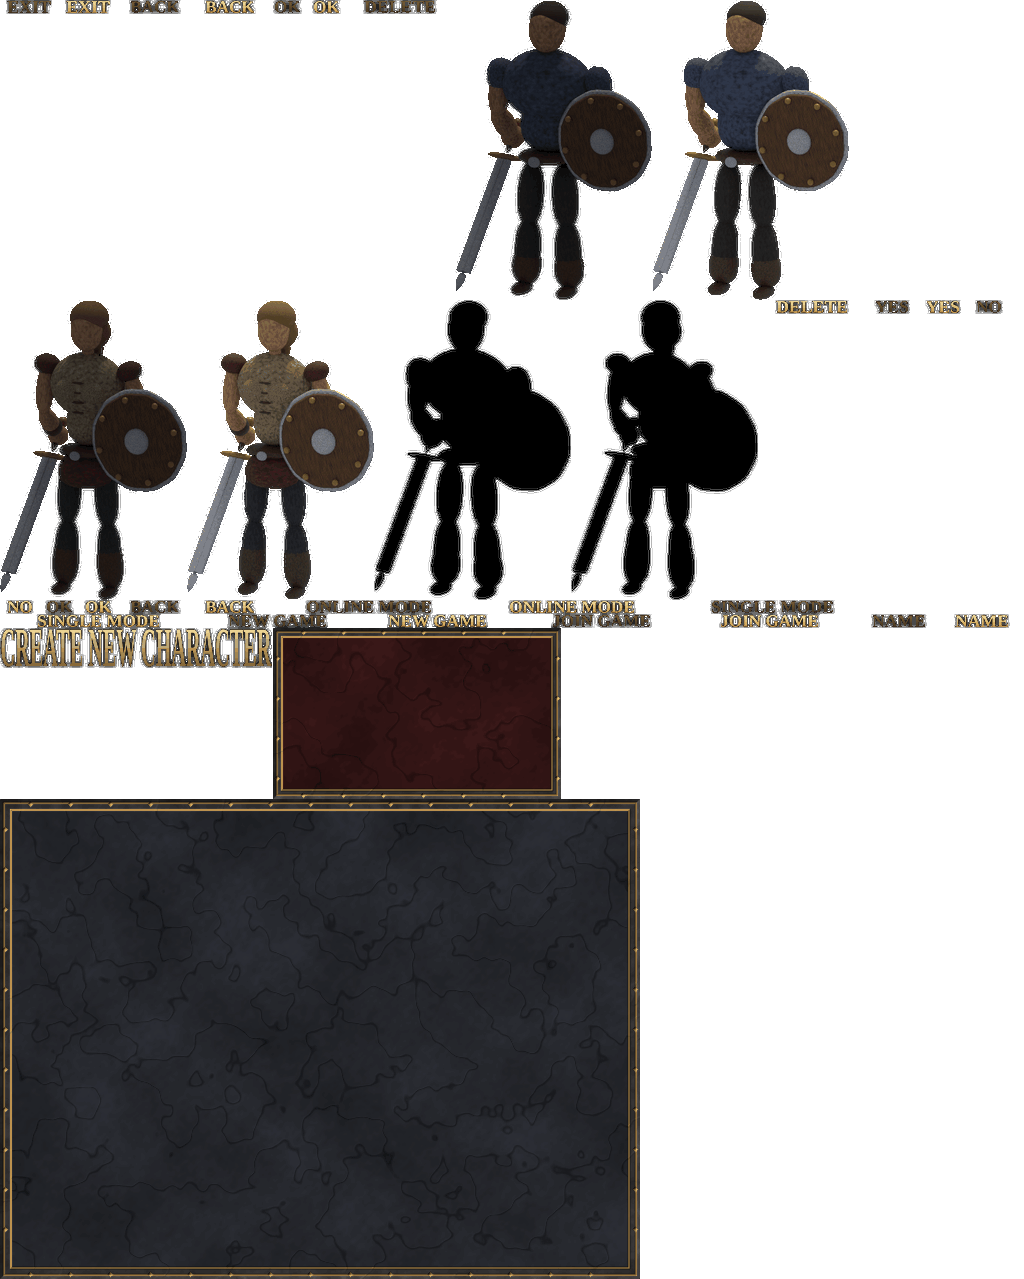
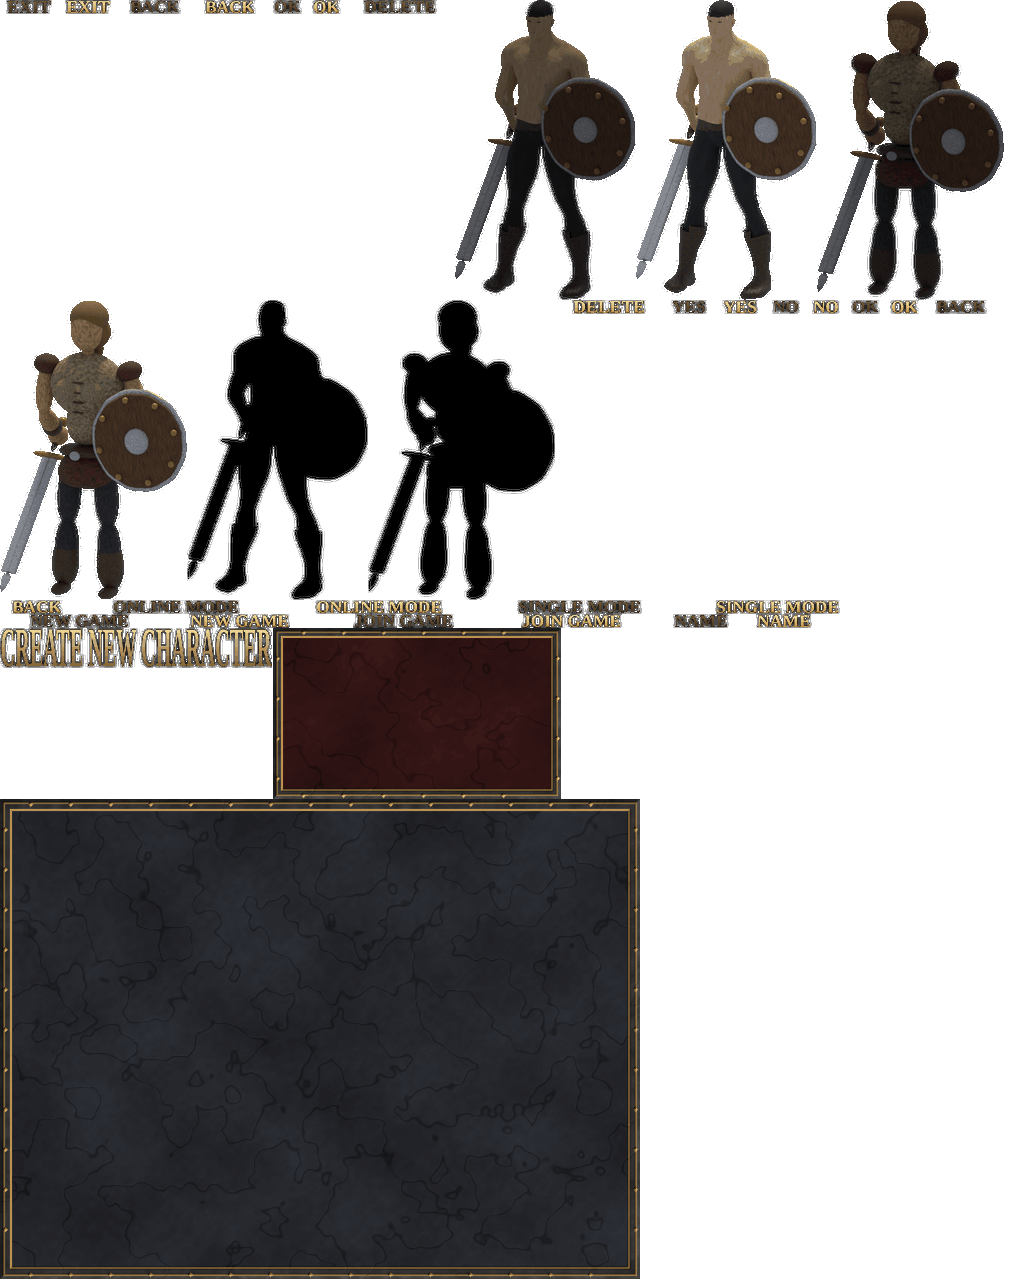
Give the hero eyes and boots, and the new hero to the select screen
MPFB's eyeballs are kept and painted; boots are a shell over the feet.
The hero renders in a 200 px frame so long weapons are not cut off.
The Create New Character screen shows the new hero.

Claude-Session: https://claude.ai/code/session_01HSfgFawsfrjYrtN2WY12fv

Changed region(s): [[0.0, 0.0, 1.0, 0.5184], [0.9375, 0.4574, 1.0, 0.4879], [0.8438, 0.4574, 0.9062, 0.4879]]

diff --git a/tools/art/mpfb_body.py b/tools/art/mpfb_body.py
@@ -25,6 +25,7 @@ import bpy
 from mathutils import Matrix, Vector
 
 EXTENSION = "bl_ext.user_default.mpfb"
+EYES = ("helper-l-eye", "helper-r-eye")
 
 # creatures.Rig joint: (MPFB bones it drives, bone whose head is the joint)
 JOINTS = {
@@ -82,6 +83,14 @@ def human(height, macros, targets=()):
     ts.reapply_macro_details(body)
     for path, weight in targets:
         ts.load_target(body, os.path.join(loc.get_mpfb_data("targets"), path), weight=weight)
+    # MPFB shows only the "body" group; show the eyeballs too.
+    for mod in body.modifiers:
+        if mod.type == "MASK":
+            keep = {body.vertex_groups[n].index for n in (mod.vertex_group, *EYES)}
+            shown = body.vertex_groups.new(name="body and eyes")
+            shown.add([v.index for v in body.data.vertices if any(g.group in keep and g.weight > 0 for g in v.groups)],
+                      1.0, "REPLACE")
+            mod.vertex_group = shown.name
     armature = hs.add_builtin_rig(body, "game_engine")
     armature["height"] = height
     return body, armature
@@ -138,18 +147,26 @@ def dominant_bone(body):
     return out
 
 
-def paint(body, pick):
+def paint(body, pick, eye=None):
     """Gives each face the material pick(centre, bones of its vertices,
     normal) returns; centre and normal are in the body's rest pose, in
-    world units, front towards -Y. Materials are added to the mesh as
-    they are first returned."""
+    world units, front towards -Y. The eyeballs get `eye` (a dark brown
+    unless given). Materials are added to the mesh as they are first
+    returned."""
+    import studio
+    eye = eye or studio.material("eye", (0.16, 0.10, 0.07), (0.05, 0.03, 0.02), scale=60, rough=0.2, bump=0)
+    eyes = {g.index for g in body.vertex_groups if g.name in EYES}
+    in_eye = [any(g.group in eyes and g.weight > 0 for g in v.groups) for v in body.data.vertices]
     bones = dominant_bone(body)
     mw = body.matrix_world
     slots = {}
     for poly in body.data.polygons:
         centre = mw @ poly.center
         normal = (mw.to_3x3() @ poly.normal).normalized()
-        mat = pick(centre, [bones[i] for i in poly.vertices], normal)
+        if all(in_eye[i] for i in poly.vertices):
+            mat = eye
+        else:
+            mat = pick(centre, [bones[i] for i in poly.vertices], normal)
         if mat.name not in slots:
             body.data.materials.append(mat)
             slots[mat.name] = len(body.data.materials) - 1

diff --git a/tools/art/creatures.py b/tools/art/creatures.py
@@ -33,7 +33,7 @@ sys.path.insert(0, str(Path(__file__).resolve().parent))
 import studio  # noqa: E402
 from town import mesh  # noqa: E402
 
-SIZE = {"golem": 300, "shaman": 200, "bigspider": 200, "ogre": 220, "demon": 300, "dragon": 400}  # rendered frame size in pixels, 160 unless listed
+SIZE = {"hero": 200, "golem": 300, "shaman": 200, "bigspider": 200, "ogre": 220, "demon": 300, "dragon": 400}  # rendered frame size in pixels, 160 unless listed
 HEIGHT = {"goblin": 3.8, "hero": 4.0, "heroine": 3.5, "fly": 2.4, "ghoul": 3.4, "shaman": 4.6, "golem": 9.5, "spider": 2.4,
           "bigspider": 3.6, "ogre": 4.8, "demon": 6.0, "dragon": 9.0}  # for framing
 
@@ -143,10 +143,10 @@ def build_hero():
     Its joints are the ones every rig has, so the pose code and equipment
     work as before."""
     import mpfb_body
-    skin = studio.material("skin", (0.86, 0.72, 0.58), (0.60, 0.45, 0.34), scale=30, bump=0.05)
+    skin = studio.material("skin", (0.86, 0.72, 0.58), (0.72, 0.56, 0.44), scale=30, bump=0.05)
     hair = studio.material("hair", (0.16, 0.11, 0.07), (0.06, 0.04, 0.03), scale=60, bump=0.5, stretch=(1, 1, 4))
     trousers = studio.material("trousers", (0.13, 0.13, 0.14), (0.04, 0.04, 0.05), scale=18, bump=0.3)
-    leather = studio.material("leather", (0.20, 0.14, 0.10), (0.07, 0.05, 0.04), scale=25, rough=0.6)
+    leather = studio.material("leather", (0.30, 0.20, 0.13), (0.12, 0.08, 0.05), scale=25, rough=0.6)
     height = 3.2 * SCALE_MH
     body, armature = mpfb_body.human(height, dict(gender=1.0, age=0.5, muscle=1.0, weight=0.7, height=0.6,
                                                    proportions=0.8, caucasian=1.0, african=0.0, asian=0.0))
@@ -169,6 +169,9 @@ def build_hero():
     mpfb_body.paint(body, pick)
     rig = Rig()
     mpfb_body.bind(rig, body, armature, 1.22 * SCALE_MH)
+    # Boots over the feet, so no toes show.
+    mpfb_body.shell(body, lambda centre, part, normal: (leather, 0.035) if centre.z / height < 0.20 else None,
+                    "boots")
     rig.kind = "hero"
     rig.body = body
     rig.height = height
